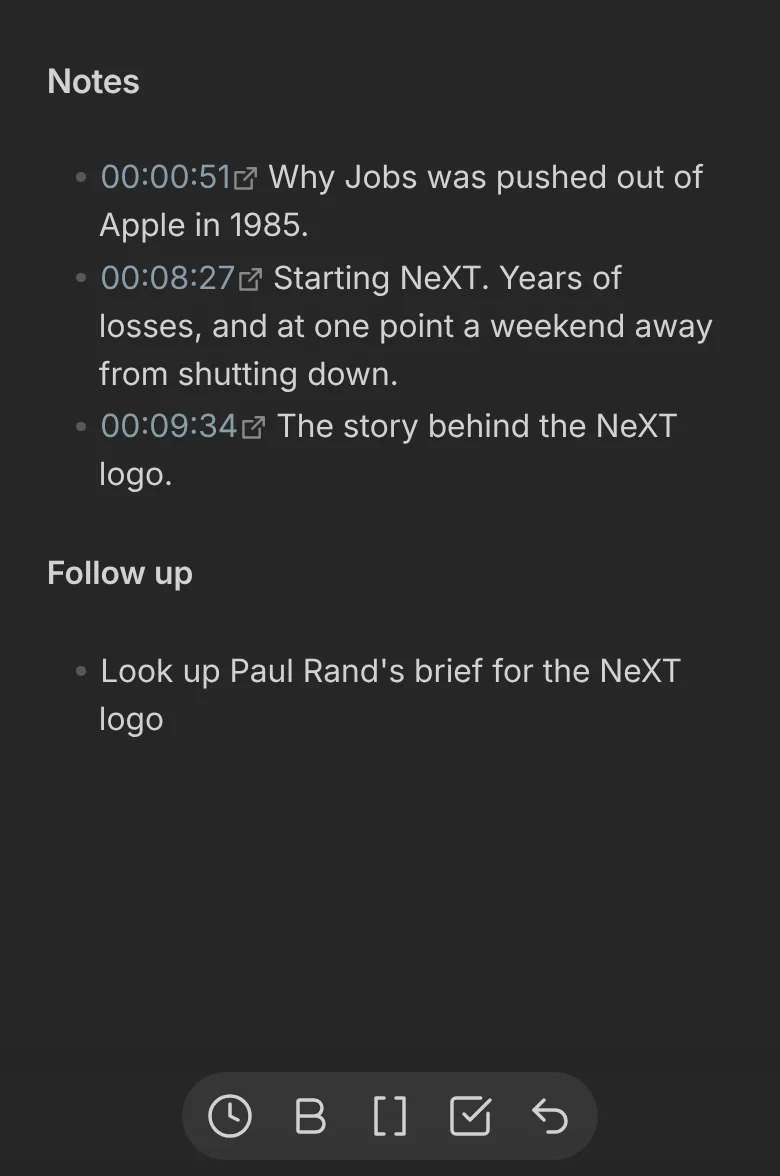
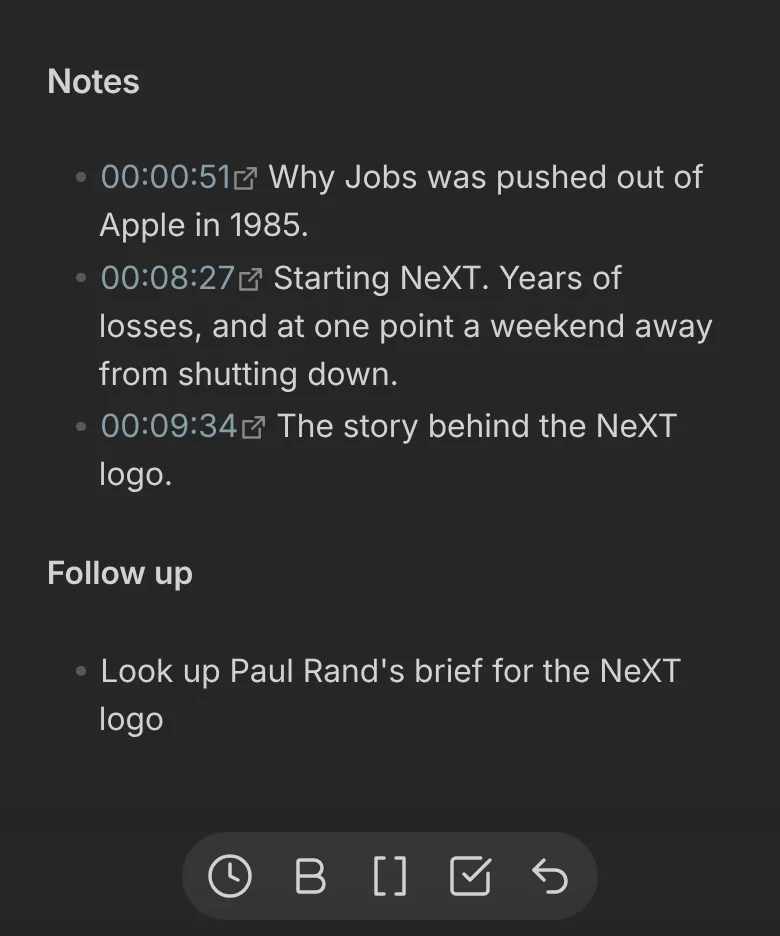
docs: apply the seventh review round across every page
The transcription page opened by saying it needs an OpenAI account, which contradicted its own table, where Deepgram needs no OpenAI key. The opening now states which provider runs when, and the landing card and description stay neutral. Refresh episodes is scoped to the lists where it fetches, and the import warning names Import settings.

Section headings balance their lines, menu paths stay on one line, the QuickAdd offset call sits in its own code block, and the phone toolbar shot is framed closer under the note.

diff --git a/docs/src/styles/custom.css b/docs/src/styles/custom.css
@@ -387,8 +387,9 @@ starlight-toc a {
  * Line breaks
  * ------------------------------------------------------------------------ */
 
-/* Headings break into even lines instead of leaving one word behind. */
-.sl-markdown-content :is(h2, h3),
+/* Headings break into even lines instead of leaving one word behind. Section
+ * headings sit inline in Starlight's wrapper, which owns their lines. */
+.sl-markdown-content .sl-heading-wrapper,
 h1#_top {
 	text-wrap: balance;
 }

diff --git a/docs/src/content/docs/import_export.md b/docs/src/content/docs/import_export.md
@@ -5,19 +5,19 @@ description: Import podcasts from OPML, export them to OPML, and back up or move
 ---
 
 Move your podcasts between PodNotes and other podcast apps with OPML files, and back up or move your PodNotes setup with a settings file.
-All of these controls are in **Settings → PodNotes**.
+All of these controls are in **Settings → PodNotes**.
 
 ## <span id="importing"></span>Import podcasts from OPML
 
 1. In your other podcast app, such as Pocket Casts, export your subscriptions as an OPML file.
-2. In **Settings → PodNotes**, under **Import/Export**, select **Import** next to **Import OPML**.
+2. In **Settings → PodNotes**, under **Import/Export**, select **Import** next to **Import OPML**.
 3. Select the `.opml` file.
 
 PodNotes fetches each feed and adds it to your podcasts, and a notice reports how many it saved and how many failed to load. It skips podcasts you already have, matched by feed URL or by title.
 
 ## <span id="exporting"></span>Export podcasts to OPML
 
-1. In **Settings → PodNotes**, under **Import/Export**, enter a file name next to **Export OPML**, or keep `PodNotes_Export.opml`.
+1. In **Settings → PodNotes**, under **Import/Export**, enter a file name next to **Export OPML**, or keep `PodNotes_Export.opml`.
 2. Select **Export**.
 
 PodNotes saves the file at the root of your vault. To save it in an existing folder, include the folder in the name, such as `Exports/PodNotes_Export.opml`. If the name is taken, the export fails, so choose another name.
@@ -30,7 +30,7 @@ A settings file copies your PodNotes setup to another vault, or keeps a backup o
 
 ### <span id="exporting-settings"></span>Export your settings
 
-1. In **Settings → PodNotes**, under **Preferences & templates**, enter a file name next to **Export settings**, or keep `PodNotes_Settings.json`.
+1. In **Settings → PodNotes**, under **Preferences & templates**, enter a file name next to **Export settings**, or keep `PodNotes_Settings.json`.
 2. To include your OpenAI and Deepgram API keys, turn on **Include API keys**. Read [API keys in a settings file](#api-keys-in-a-settings-file) first.
 3. Next to **Export settings**, select **Export**.
 
@@ -38,9 +38,9 @@ PodNotes saves the file in your vault and never overwrites an existing file. If 
 
 ### <span id="importing-settings"></span>Import your settings
 
-After an import, PodNotes cannot fetch your protected private feeds, the ones whose URL contains a user name, a password, or a token parameter such as `auth`. A settings file holds a placeholder instead of their URLs. The same holds for a backup or a copy of `data.json` that you restore into the same vault. Before you import, keep a copy of their private URLs.
+After an import, PodNotes cannot fetch your protected private feeds, the ones whose URL contains a user name, a password, or a token parameter such as `auth`. A settings file holds a placeholder instead of their URLs. The same holds when you import a backup or a copy of `data.json` with **Import settings**, even into the same vault. Before you import, keep a copy of their private URLs.
 
-1. In **Settings → PodNotes**, under **Preferences & templates**, select **Import** next to **Import settings**.
+1. In **Settings → PodNotes**, under **Preferences & templates**, select **Import** next to **Import settings**.
 2. Select the settings file.
 3. In **Import PodNotes settings?**, select **Import**.
 4. Under **Search Podcasts**, with the search box empty, select **Remove** next to each protected private feed.

diff --git a/docs/src/content/docs/timestamps.md b/docs/src/content/docs/timestamps.md
@@ -21,7 +21,7 @@ PodNotes inserts a list item with a link such as `00:12:41`, followed by a space
 
 To capture from a hotkey:
 
-1. Open **Settings → Hotkeys**.
+1. Open **Settings → Hotkeys**.
 2. Search for **PodNotes: Capture Timestamp**.
 3. Assign a shortcut to it.
 
@@ -33,13 +33,13 @@ A headset button that sends the previous-track action also captures. If a note i
 
 To mark a passage instead of a moment, run **PodNotes: Capture Last 10 Seconds** or **PodNotes: Capture Last 20 Seconds**. PodNotes inserts a link to the range that ends at the current playback time, such as `00:12:31-00:12:41`. The link plays that passage and pauses at its end. It does not cut an audio clip.
 
-The range commands adapt **Capture timestamp format**, as [Timestamp tags](#timestamp-tags) describes. [Commands](/commands/#capture-last-10-seconds--capture-last-20-seconds) lists when they are available.
+The range commands insert a range in the style of your **Capture timestamp format**, as [Timestamp tags](#timestamp-tags) describes. [Commands](/commands/#capture-last-10-seconds--capture-last-20-seconds) lists when they are available.
 
 ## Make timestamps clickable
 
 If your captures come out as plain text with no link, your format most likely uses `{{time}}`, the default before PodNotes 2.21.0.
 
-1. Open **Settings → PodNotes**.
+1. Open **Settings → PodNotes**.
 2. Under **Episode notes**, set **Capture timestamp format** to `- {{linktime}}` with a space at the end.
 
 New captures are links. Timestamps that you captured before stay plain text. If the format already uses `{{linktime}}`, the episode has no feed URL or local file to link to.
@@ -118,7 +118,7 @@ The handler accepts these query parameters:
 | --- | --- | --- |
 | `url` | Yes | Podcast feed URL, vault path of a local file, or the placeholder that stands for a private feed. |
 | `episodeName` | Yes | Episode title. |
-| `time` | No | Start time in seconds, zero or greater. Decimals are allowed. |
+| `time` | No | Start time in seconds, zero or greater. It can have decimals. |
 | `endTime` | No | End of a range in seconds, greater than `time`. Needs `time`. |
 | `end` | No | Alias of `endTime`. |
 | `to` | No | Alias of `endTime`. |
@@ -127,4 +127,4 @@ When a link has no `time`, or an empty one, the episode resumes from its saved p
 
 A feed `url` must be a public HTTP or HTTPS address. A private-feed placeholder resolves only through a saved podcast and the feed address stored on that device. A local `url` needs a registered episode and its media file.
 
-Query values are percent-encoded, and PodNotes also reads links from older versions that encode a space as `+`. The handler matches `episodeName` to an episode title regardless of case, and otherwise to the one title with the same words in any order and with any punctuation.
+PodNotes percent-encodes query values, and also reads links from older versions that encode a space as `+`. The handler matches `episodeName` to an episode title regardless of case, and otherwise to the one title with the same words in any order and with any punctuation.

diff --git a/docs/src/content/docs/QuickAdd.md b/docs/src/content/docs/QuickAdd.md
@@ -15,7 +15,7 @@ This Capture choice writes a timestamp link and your comment on a new line below
 - [00:12:41](obsidian://podnotes?...) Why tariffs raise prices
 ```
 
-1. In **Settings → QuickAdd**, select **New choice**.
+1. In **Settings → QuickAdd**, select **New choice**.
 2. Select **Capture**.
 3. Set **Name** to `Podcast timestamp`.
 4. Turn on **Capture to active file**.
@@ -35,12 +35,22 @@ This Capture choice writes a timestamp link and your comment on a new line below
 10. Select `Podcast timestamp`.
 11. Type your comment.
 
-The `js quickadd` [inline script](https://quickadd.obsidian.guide/docs/InlineScripts/) returns the playback time, and `true` makes it a link. For other formats, use the [time tokens](/timestamps/#time-formats). To subtract reaction time, pass seconds as a third argument, as in `getPodcastTimeFormatted("HH:mm:ss", true, 5)`. Without a loaded episode, the call fails with `No podcast loaded`.
+The `js quickadd` [inline script](https://quickadd.obsidian.guide/docs/InlineScripts/) returns the playback time, and `true` makes it a link. For other formats, use the [time tokens](/timestamps/#time-formats). To subtract reaction time, pass seconds as a third argument:
+
+```js
+return podnotes.getPodcastTimeFormatted(
+	"HH:mm:ss",
+	true,
+	5,
+);
+```
+
+Without a loaded episode, the call fails with `No podcast loaded`.
 
 To run the capture from a hotkey:
 
-1. In **Settings → QuickAdd**, select **Command palette: Podcast timestamp**, the lightning icon next to the choice.
-2. In **Settings → Hotkeys**, assign a hotkey to **QuickAdd: Podcast timestamp**.
+1. In **Settings → QuickAdd**, select **Command palette: Podcast timestamp**, the lightning icon next to the choice.
+2. In **Settings → Hotkeys**, assign a hotkey to **QuickAdd: Podcast timestamp**.
 
 QuickAdd's [Capture docs](https://quickadd.obsidian.guide/docs/Choices/CaptureChoice/) describe the other options.
 
@@ -79,7 +89,7 @@ This macro runs a user script that saves the loaded episode's fields as QuickAdd
    ## Notes
    ```
 
-3. In **Settings → QuickAdd**, select **New choice**.
+3. In **Settings → QuickAdd**, select **New choice**.
 4. Select **Macro**.
 5. Set **Name** to `Podcast episode note`.
 6. On the **Podcast episode note** page, under **Commands**, next to **User scripts**, select **Browse**.

diff --git a/docs/src/content/docs/podcasts.md b/docs/src/content/docs/podcasts.md
@@ -8,7 +8,7 @@ Add podcasts to PodNotes, find their episodes, and play them.
 
 ## <span id="adding-podcasts"></span>Add a podcast
 
-1. Open **Settings → PodNotes**.
+1. Open **Settings → PodNotes**.
 2. Under **Search Podcasts**, type a podcast's name, such as `the daily`. Results appear as you type.
 3. Next to the podcast, select **Add**.
 
@@ -22,7 +22,7 @@ See [Which podcasts can I add?](/faq/#which-podcasts-can-i-add) and [Can I use a
 
 ## Remove a podcast
 
-1. Open **Settings → PodNotes**.
+1. Open **Settings → PodNotes**.
 2. Under **Search Podcasts**, clear the search box. It lists the podcasts you follow.
 3. Next to the podcast, select **Remove**.
 
@@ -40,9 +40,9 @@ The view then lists that podcast's or playlist's episodes. **Queue** is the exce
 
 To return to the last list you saw, select **Episode list**, the second button at the top of the view. If it shows a podcast or a playlist, select **Latest Episodes** at the top to see the newest episodes of every podcast.
 
-Above each list, **Search episodes** filters it, and **Refresh episodes** fetches new episodes. **Hide played episodes** hides the episodes that PodNotes strikes through as played, and **Show played episodes** brings them back. The **Played** list always shows them.
+Above each list, **Search episodes** filters it. In **Latest Episodes** and a podcast's list, **Refresh episodes** fetches new episodes. **Hide played episodes** hides the episodes that PodNotes strikes through as played, and **Show played episodes** brings them back. The **Played** list always shows them.
 
-<span id="how-many-latest-episodes-are-shown"></span>**Latest Episodes** shows and searches the 10 newest episodes of each podcast. To show up to 75, raise **Latest episodes per podcast** in **Settings → PodNotes**.
+<span id="how-many-latest-episodes-are-shown"></span>**Latest Episodes** shows and searches the 10 newest episodes of each podcast. To show up to 75, raise **Latest episodes per podcast** in **Settings → PodNotes**.
 
 ## <span id="player"></span>Play an episode
 

diff --git a/docs/src/content/docs/playlists.md b/docs/src/content/docs/playlists.md
@@ -20,11 +20,11 @@ To add an episode to the bottom of the queue:
 1. In the player's **Queue** list, right-click an episode, or select its **More options** button.
 2. Select **Move to top of queue**, **Move up in queue**, **Move down in queue**, or **Move to bottom of queue**.
 
-For a long queue, run **PodNotes: Reorder Queue**. It needs two or more episodes in the queue.
+For a long queue, run **PodNotes: Reorder Queue**. It opens a list where you move each episode up, down, to the top, or to the bottom, and it needs two or more episodes in the queue.
 
 ### Turn off the automatic queue
 
-To fill the queue only by hand, turn off **Keep a queue of episodes you switch away from** in **Settings → PodNotes**. PodNotes then stops adding the episode you leave, and stops starting the next one when an episode ends. While the queue is empty, PodNotes hides it.
+To control the queue only by hand, turn off **Keep a queue of episodes you switch away from** in **Settings → PodNotes**. PodNotes then stops adding the episode you leave, and when an episode ends, the next one in the queue does not start. With the setting off, the podcast grid hides **Queue** while the queue is empty.
 
 ## Collect episodes in playlists
 
@@ -36,7 +36,7 @@ The podcast grid also shows three built-in playlists:
 
 To make your own playlist:
 
-1. Open **Settings → PodNotes**.
+1. Open **Settings → PodNotes**.
 2. Under **Playlists**, select an icon in the icon dropdown.
 3. In **Playlist name**, type a name, such as `Commute`.
 4. Select **Add**.
@@ -52,6 +52,6 @@ The playlist appears in the podcast grid.
 
 To delete a playlist:
 
-1. Open **Settings → PodNotes**.
+1. Open **Settings → PodNotes**.
 2. Under **Playlists**, select the playlist's **Delete playlist** button, the trash icon.
 3. Within two seconds, select **Confirm deletion**, the check icon.

diff --git a/docs/src/content/docs/sync.md b/docs/src/content/docs/sync.md
@@ -18,7 +18,7 @@ PodNotes has no sync service of its own, so your vault sync service, such as Obs
 | The current playback speed | Not at all. PodNotes does not save it. Only **Default Playback Rate** syncs. |
 
 For your library to sync, your sync service must include PodNotes' plugin folder, `.obsidian/plugins/podnotes/`.
-With Obsidian Sync, turn on **Active community plugin list** and **Installed community plugins** under **Vault configuration sync** in **Settings → Sync**. The second one syncs each plugin's files and settings, which hold your PodNotes library. Obsidian keeps these settings per device, so change them on each device. [Sync settings in Obsidian Help](https://obsidian.md/help/sync/settings) describes them.
+With Obsidian Sync, turn on **Active community plugin list** and **Installed community plugins** under **Vault configuration sync** in **Settings → Sync**. The second one syncs each plugin's files and settings, which hold your PodNotes library. Obsidian keeps these settings per device, so change them on each device. [Sync settings in Obsidian Help](https://obsidian.md/help/sync/settings) describes them.
 
 ## Use PodNotes on two devices
 
@@ -27,7 +27,7 @@ Use one device at a time, and let PodNotes load the synced library before you us
 1. On the device you are leaving, pause playback.
 2. Wait until your sync service finishes uploading.
 3. On the device you are switching to, open Obsidian and wait until sync finishes.
-4. Restart Obsidian, or turn PodNotes off and on again in **Settings → Community plugins**.
+4. Restart Obsidian, or turn PodNotes off and on again in **Settings → Community plugins**.
 
 Step 4 matters because PodNotes reads `data.json` only when it loads, which is usually as Obsidian starts and before sync finishes.
 Then use PodNotes on this device until you switch back.

diff --git a/docs/src/content/docs/getting-started.md b/docs/src/content/docs/getting-started.md
@@ -8,7 +8,7 @@ In about five minutes, you get a podcast playing in Obsidian, a timestamp in a n
 
 ## Install PodNotes
 
-1. In Obsidian, open **Settings → Community plugins**.
+1. In Obsidian, open **Settings → Community plugins**.
 2. If you see **Exit Restricted mode**, select it.
 3. Select **Browse**.
 4. Search for PodNotes.
@@ -19,7 +19,7 @@ On a computer, the PodNotes view opens in the right sidebar. To open it again la
 
 ## Add a podcast
 
-1. Open **Settings → PodNotes**.
+1. Open **Settings → PodNotes**.
 2. Under **Search Podcasts**, type a show's name. Results appear as you type.
 3. Select **Add** on the show you want.
 
@@ -59,17 +59,17 @@ Select the link, in Live Preview or reading view, to play the episode from that 
 To try a beta version before it reaches **Community plugins**, install PodNotes with BRAT:
 
 1. Install the [BRAT](obsidian://show-plugin?id=obsidian42-brat) plugin.
-2. In **Settings → Community plugins**, turn on BRAT.
+2. In **Settings → Community plugins**, turn on BRAT.
 3. Run **BRAT: Plugins: Add a beta plugin for testing (with or without version)**.
 4. Enter `chhoumann/PodNotes`.
 5. Select **Add plugin**.
-6. If PodNotes is not turned on afterwards, turn it on in **Settings → Community plugins**.
+6. If PodNotes is not turned on afterwards, turn it on in **Settings → Community plugins**.
 
 To install a release by hand:
 
 1. From the [latest release](https://github.com/chhoumann/PodNotes/releases/latest), download `main.js` and `manifest.json`.
 2. In your vault, put both files in `.obsidian/plugins/podnotes/`. Create the folder if it does not exist.
-3. In **Settings → Community plugins**, select **Reload plugins**.
+3. In **Settings → Community plugins**, select **Reload plugins**.
 4. Turn on PodNotes.
 
 ## Next steps

diff --git a/docs/src/content/docs/transcripts.md b/docs/src/content/docs/transcripts.md
@@ -2,17 +2,17 @@
 title: Transcribe episodes
 slug: transcripts
 legacyTitleId: transcripts
-description: Transcribe an episode into a note with your OpenAI key, add speaker labels with OpenAI or Deepgram, and see what it costs.
+description: Transcribe an episode into a note with your own API key, add speaker labels, and see what it costs.
 ---
 
-Turn the audio of an episode into a transcript note with your own OpenAI account. Speaker labels can come from OpenAI or from a Deepgram account.
+Turn the audio of an episode into a transcript note with your own OpenAI or Deepgram account. Without speaker labels, PodNotes uses OpenAI. With speaker labels, you choose OpenAI or Deepgram, and Deepgram needs no OpenAI key.
 
 ## <span id="setting-up"></span>Set up an OpenAI key
 
 Without speaker labels, PodNotes sends the audio to OpenAI with your API key.
 
 1. Create a key on the [OpenAI API keys page](https://platform.openai.com/api-keys).
-2. In Obsidian, open **Settings → PodNotes**.
+2. In Obsidian, open **Settings → PodNotes**.
 3. Under **Transcripts**, select the secret picker next to **OpenAI API key**.
 4. Create a secret that holds your key, or select one that you saved before.
 
@@ -27,7 +27,7 @@ A notice shows the progress, and you can keep listening. When the transcript is 
 
 ## <span id="speaker-diarization"></span><span id="enabling-it"></span>Add speaker labels
 
-1. Open **Settings → PodNotes**.
+1. Open **Settings → PodNotes**.
 2. Under **Transcripts**, turn on **Speaker diarization**.
 3. In **Diarization provider**, select **OpenAI (gpt-4o-transcribe-diarize)** or **Deepgram**.
 4. If you selected **Deepgram**, create a key in the [Deepgram console](https://console.deepgram.com/).

diff --git a/docs/src/content/docs/index.md b/docs/src/content/docs/index.md
@@ -34,14 +34,14 @@ hero:
 - [Use PodNotes on your phone](/mobile/)
   PodNotes works on iOS and Android. Download episodes for offline listening, or play your own audio and video files.
 - <span id="transcripts-with-speaker-labels"></span>[Transcribe episodes](/transcripts/)
-  Turn an episode into a transcript note with your own OpenAI API key, or with a Deepgram key when you turn on speaker labels and choose Deepgram.
+  Turn an episode into a transcript note with your own API key, and label who speaks if you want.
 - [Automate with the API](/api/)
   Use the commands, the JavaScript API, and QuickAdd to capture and write notes your way.
 
 ## <span id="installation"></span><span id="installation-with-brat"></span><span id="manual-installation"></span>Start in three steps
 
-1. **Install PodNotes.** In **Settings → Community plugins**, select **Exit Restricted mode** if you see it. Select **Browse**, search for PodNotes, then select **Install** and **Enable**.
-2. **Add a podcast.** In **Settings → PodNotes**, search for a show or paste its RSS feed URL, then select **Add**.
+1. **Install PodNotes.** Find it under **Browse** in **Settings → Community plugins**, then select **Install** and **Enable**.
+2. **Add a podcast.** In **Settings → PodNotes**, search for a show or paste its RSS feed URL, then select **Add**.
 3. **Capture a moment.** Run **PodNotes: Show player** and select an episode to play it. In a note, run **PodNotes: Capture Timestamp**.
 
 [Getting started](/getting-started/) walks through each step. To install a beta version or install by hand, see [Other ways to install](/getting-started/#other-ways-to-install).

diff --git a/docs/src/content/docs/faq.md b/docs/src/content/docs/faq.md
@@ -31,7 +31,7 @@ Install a beta version with the BRAT plugin, or copy a release's files into your
 ### Which podcasts can I add?
 
 Any podcast with an RSS feed.
-In **Settings → PodNotes**, under **Search Podcasts**, search the Apple Podcasts directory by name, or paste an RSS feed URL or an Apple Podcasts show link.
+In **Settings → PodNotes**, under **Search Podcasts**, search the Apple Podcasts directory by name, or paste an RSS feed URL or an Apple Podcasts show link.
 A show missing from search can still work if you paste its RSS feed URL. See [Add and play podcasts](/podcasts/).
 
 ### Can I add Spotify exclusives or YouTube links?
@@ -56,7 +56,7 @@ See [Play your own audio and video](/local_files/#play-your-own-audio-and-video)
 
 Your **Capture timestamp format** uses `{{time}}`, which inserts plain text.
 Installs set up before PodNotes 2.21.0 keep the old default, which uses `{{time}}`. New installs use `{{linktime}}`, which inserts a link that plays the episode from that moment.
-In **Settings → PodNotes**, set **Capture timestamp format** to `- {{linktime}}` with a space at the end. If it already uses `{{linktime}}`, the episode has no feed URL or local file to link to. See [Make timestamps clickable](/timestamps/#make-timestamps-clickable).
+In **Settings → PodNotes**, set **Capture timestamp format** to `- {{linktime}}` with a space at the end. If it already uses `{{linktime}}`, the episode has no feed URL or local file to link to. See [Make timestamps clickable](/timestamps/#make-timestamps-clickable).
 
 ### Can I take notes on an episode I listen to in another app?
 

diff --git a/docs/src/content/docs/api.md b/docs/src/content/docs/api.md
@@ -127,7 +127,7 @@ const transcript = await api.getTranscript();
 ### QuickAdd AI prompt example
 
 This QuickAdd user script returns a prompt that contains the current episode's transcript note.
-Add it to a QuickAdd macro, then insert its result with `{{MACRO:<macro name>}}`, for example in a prompt template for QuickAdd's AI Assistant.
+[Send a transcript to an AI prompt](/QuickAdd/#send-a-transcript-to-an-ai-prompt) shows how to use it in a QuickAdd macro.
 
 ```js
 module.exports = async (params) => {
@@ -156,7 +156,7 @@ ${transcript}`;
 getPodcastTimeFormatted(format: string, linkify?: boolean, offsetSeconds?: number): string
 ```
 
-Returns the current playback time, formatted with the [time tokens](/timestamps/#time-formats).
+Returns the current playback time, formatted with the [time tokens](/timestamps/#time-formats). `api.getPodcastTimeFormatted("HH:mm:ss", true)` returns a link such as `[00:12:41](obsidian://podnotes?...)`.
 
 - `linkify` defaults to `false`. With `true`, the result is a Markdown link that opens PodNotes at that time. Without a feed URL or a local file path to link to, the result stays plain text.
 - `offsetSeconds` defaults to `0`. PodNotes subtracts it before formatting and linking, and never goes below zero.
